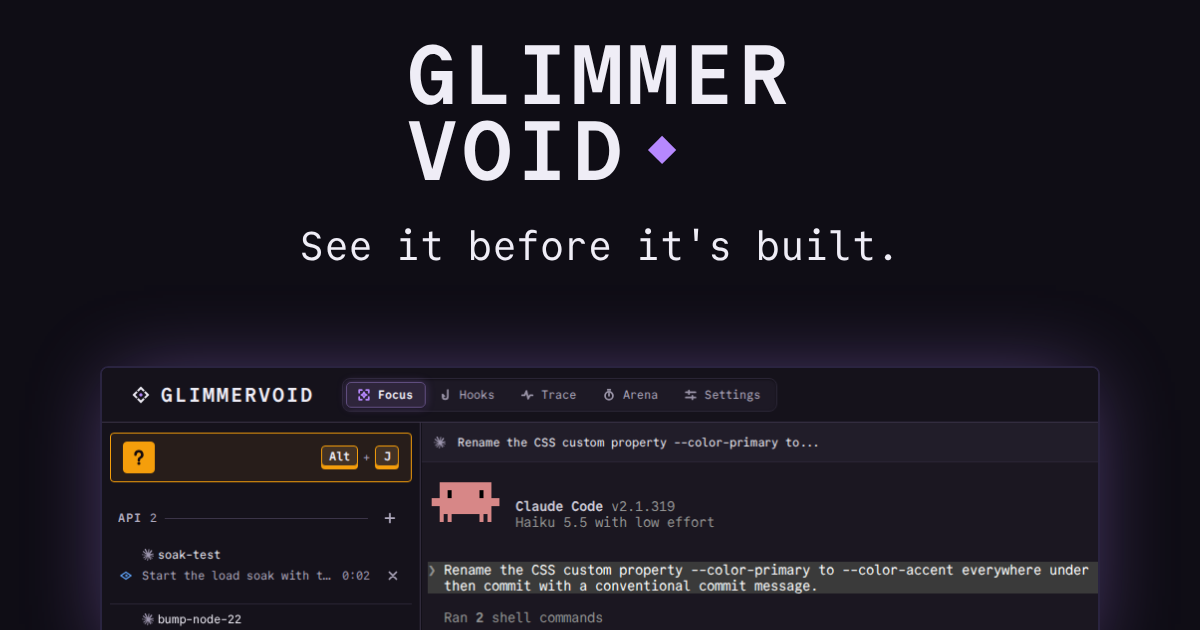
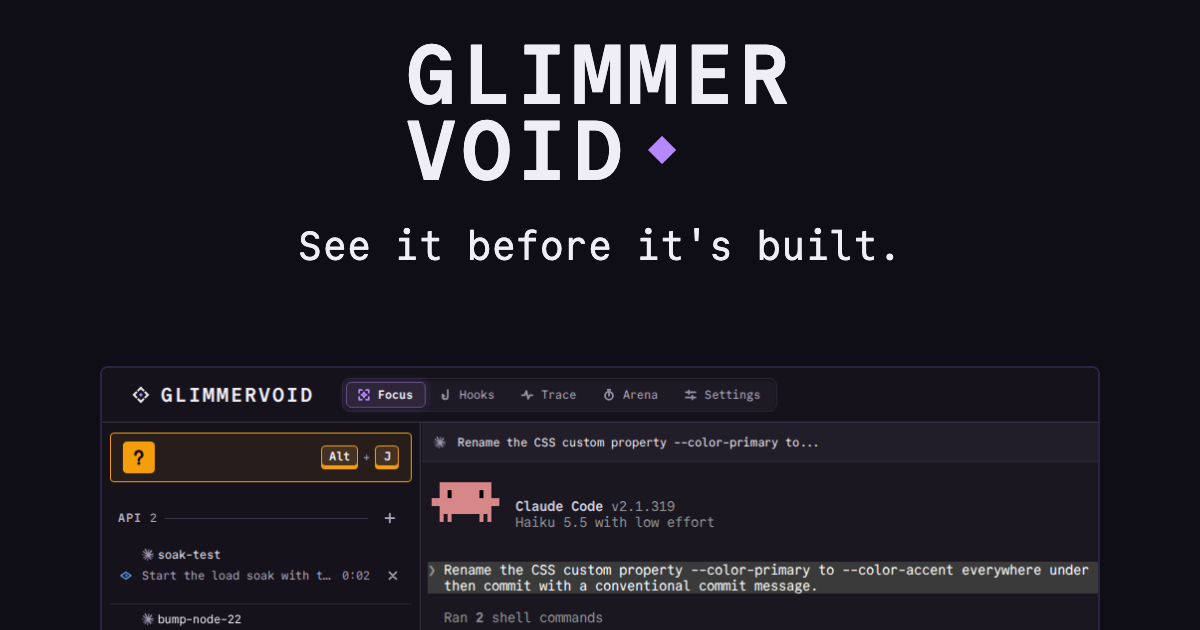
test(gates): hold marketing image templates to the no-glow rule
The no-glow gate read only public/ and site/src/, so the shipped link
card blurred the brand accent into a halo and nothing failed. It now
reads marketing/social HTML style blocks, and both its glow and stripe
colors match the --brand- variables the social renderer injects. The
link card window drops its glow and sits flat on its 1px border, and
og.png is re-rendered from it.

Not-tested: layout-shift report for the static link card template; only a box-shadow was removed and og.png was inspected by eye
Confidence: medium
Scope-risk: narrow
Ticket: no-glow-marketing/U1

diff --git a/tests/gates/no-glow.test.ts b/tests/gates/no-glow.test.ts
@@ -5,12 +5,12 @@ import fs from 'node:fs';
 import path from 'node:path';
 
 const REPO_ROOT = path.join(import.meta.dirname, '../..');
-const GLOW_COLOR = /var\(--(?:accent|state-|prototype-accent)/;
+const GLOW_COLOR = /var\(--(?:brand-)?(?:accent|state-|prototype-accent)/;
 const NUMERIC_LENGTH = /^-?(?:\d*\.)?\d+(?:px|em|rem)?$/;
 const BORDER_WIDTH_KEYWORD_PX: Record<string, number> = { thin: 1, medium: 3, thick: 5 };
 const BOX_SIDES = ['top', 'right', 'bottom', 'left'] as const;
 const STRIPE_SIDES = { left: 'left', right: 'right', 'inline-start': 'left', 'inline-end': 'right' } as const;
-const STRIPE_COLOR = /var\(--(?:accent|state-)/;
+const STRIPE_COLOR = /var\(--(?:brand-)?(?:accent|state-)/;
 
 const readRepoFile = (relativePath: string) => fs.readFileSync(path.join(REPO_ROOT, relativePath), 'utf8');
 const withoutComments = (stylesheet: string) => stylesheet.replace(/\/\*[\s\S]*?\*\//g, '');
@@ -141,7 +141,7 @@ function glowsIn(relativePath: string, stylesheet: string): string[] {
   return [...blurredShadows, ...insetStripes, ...radialHazes(uncommented), ...sideBorderStripes(uncommented)].map((finding) => `${relativePath}: ${finding}`);
 }
 
-test('no dashboard or site stylesheet blurs an accent or state color into a glow or draws it as a side stripe', () => {
+test('no dashboard, site or marketing image stylesheet blurs an accent or state color into a glow or draws it as a side stripe', () => {
   const dashboardGlows = [
     ...fs.globSync('public/**/*.css', { cwd: REPO_ROOT }).map((stylesheetPath) => glowsIn(stylesheetPath, readRepoFile(stylesheetPath))),
     ...fs.globSync('public/**/*.html', { cwd: REPO_ROOT }).map((markupPath) => glowsIn(markupPath, styleBlocks(readRepoFile(markupPath)))),
@@ -150,5 +150,6 @@ test('no dashboard or site stylesheet blurs an accent or state color into a glow
     ...fs.globSync('site/src/**/*.css', { cwd: REPO_ROOT }).map((stylesheetPath) => glowsIn(stylesheetPath, readRepoFile(stylesheetPath))),
     ...fs.globSync('site/src/**/*.astro', { cwd: REPO_ROOT }).map((markupPath) => glowsIn(markupPath, styleBlocks(readRepoFile(markupPath)))),
   ].flat();
-  assert.deepEqual([...dashboardGlows, ...siteGlows], [], 'state reads through a tinted fill, a full border and one motion, never a blurred glow or a side stripe (DESIGN.md Elevation, Don\'t)');
+  const marketingGlows = fs.globSync('marketing/social/**/*.html', { cwd: REPO_ROOT }).map((markupPath) => glowsIn(markupPath, styleBlocks(readRepoFile(markupPath)))).flat();
+  assert.deepEqual([...dashboardGlows, ...siteGlows, ...marketingGlows], [], 'state reads through a tinted fill, a full border and one motion, never a blurred glow or a side stripe (DESIGN.md Elevation, Don\'t)');
 });

diff --git a/marketing/social/templates/link-card.html b/marketing/social/templates/link-card.html
@@ -19,7 +19,6 @@ h1 .void::after { content: ""; position: absolute; left: calc(100% + .3em); top:
 .window {
   position: absolute; left: 50%; bottom: calc(var(--canvas-height) * -.06); transform: translateX(-50%);
   width: 500px; border: 1px solid #2a2440; border-radius: 4px; overflow: hidden;
-  box-shadow: 0 0 40px -8px color-mix(in srgb, var(--brand-accent) 45%, transparent);
 }
 .window img { display: block; width: 100%; height: auto; }
 </style>
